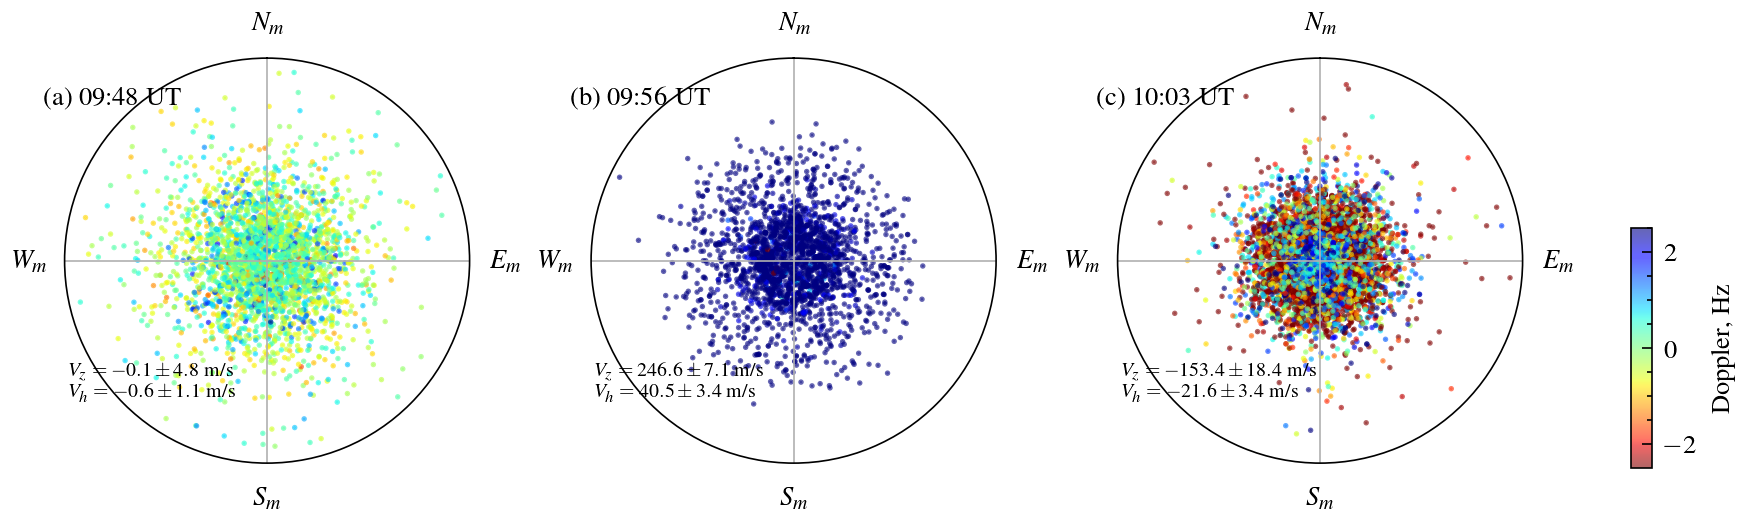
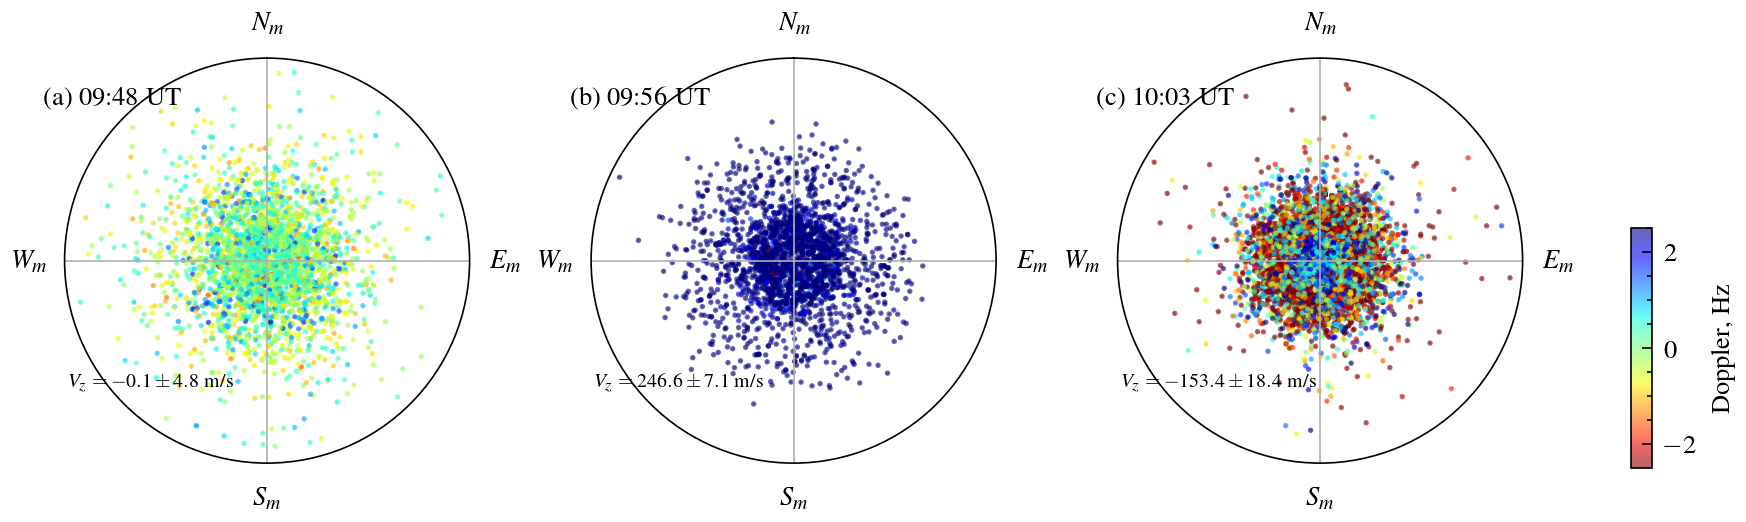
Modified add

Changed region(s): [[0.0309, 0.705, 0.1546, 0.7663], [0.6495, 0.705, 0.7732, 0.7663], [0.3402, 0.705, 0.433, 0.7663]]

diff --git a/py/utils.py b/py/utils.py
@@ -256,8 +256,8 @@ def read_cdfs_fig11():
         ax0.text(-0.05, 0.9, lab[m]+" "+times[m], ha="left", va="center", transform=ax0.transAxes)
         Vv = 3*1e8*np.cos(np.deg2rad(K.Z))*np.array(K.D*1e-3/K.F)
         Vh = 3*1e8*np.sin(np.deg2rad(K.Z))*np.array(K.D*1e-3/K.F)
-        txt = r"$V_z=%.1f \pm %.1f$ m/s"%(Vv.mean(), Vv.std()/10) + "\n"\
-            r"$V_h=%.1f \pm %.1f$ m/s"%(Vh.mean(), Vh.std()/10) 
+        txt = r"$V_z=%.1f \pm %.1f$ m/s"%(Vv.mean(), Vv.std()/10)# + "\n"\
+            #r"$V_h=%.1f \pm %.1f$ m/s"%(Vh.mean(), Vh.std()/10) 
         ax0.text(0.01, 0.2, txt, ha="left", va="center", transform=ax0.transAxes, fontdict={"size":6})
         if m==2:
             fig.subplots_adjust(right=0.8)
@@ -276,6 +276,7 @@ def read_cdfs_fig11():
     hours = mdates.MinuteLocator(range(0, 60, 15))
     ax0.xaxis.set_major_locator(hours)
     ax0.set_ylabel("$foE_s$, MHz", fontdict={"size":8, "fontweight": "bold", "color": "r"})
+    ax0.set_xlabel("Time, UT", fontdict={"size":8, "fontweight": "bold"})
     ax0.axvline(dt.datetime(2012,6,16,9,56), lw=0.6, color="k", ls="--")
     ax0.set_ylim(2, 4)
     ax0.set_xlim(dt.datetime(2012,6,16,9,30),dt.datetime(2012,6,16,10,30))
@@ -283,7 +284,8 @@ def read_cdfs_fig11():
     ax0 = ax0.twinx()
     ax0.xaxis.set_major_formatter(DateFormatter(r"{%H}^{%M}"))
     ax0.xaxis.set_major_locator(hours)
-    ax0.set_ylabel("$hmE_s$, km", fontdict={"size":8, "fontweight": "bold", "color": "b"})
+    ax0.set_ylabel("$h'E_s$, km", fontdict={"size":8, "fontweight": "bold", "color": "b"})
+    ax0.set_xlabel("Time, UT", fontdict={"size":8, "fontweight": "bold"})
     ax0.set_ylim(100, 150)
     ax0.plot(es.date, es.hEs, "bD", ms=0.9, alpha=0.9)
     ax0.text(0.05, 0.8, "(g)", ha="left", va="center", transform=ax0.transAxes)
